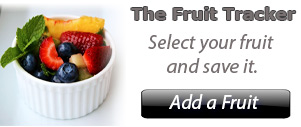
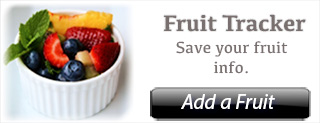
Finish the app structure with all the pages and links

diff --git a/week 2/bronze/index.html b/week 2/bronze/index.html
@@ -22,54 +22,192 @@
     </head>
 
 	<body>
+    	<!--**Home Page** Below -->
     	<div data-role="page" id="home">
         <!--Below is header section-->
-        	<div data-role="header" data-position="fixed"> 
-           <h1>CTA Header</h1>
+        	<div id="homeHeader" data-role="header" data-position="fixed"> 
+           <div class="headerImg"><a href="additem.html" target="_self"><img style src="images/heathera.jpg" width="320" height="123"  alt=""/></a></div>
            </div>
-        <!--Below is search area-->
-           <div data-role="fieldcontain">
-            <input name="" id="searchBar" placeholder="search your fruit" value="" type="search">
-        	</div>
-        <!--Below is Content Sesion-->
+           
+           <!--Below is Content Sesion-->
            <div data-role="content">
-           <p><a href="#berries"> Berries Page</a> </p>
-           </div>
-                  
+               <!--<div data-role="content"><h2 style="text-align:center; margin:-10px 0px 10px 0px;">Browse Saved Items</h2></div> **not sure  if I want to implement this -->
+               <!-- **Home Page** Data list below -->
+               <ul data-role="listview" data-filter="true" data-inset="true" data-filter-placeholder="Search Fruit Category" >           
+                   <li><a href="#berries" data-icon="info" >Berries Fruits</a></li>
+                   <li><a href="#citrus" data-icon="info" >Citrus  Fruits</a></li>
+                   <li><a href="#tropical" data-icon="info" >Tropical Fruits</a></li>
+                   <li><a href="#favorite" data-icon="info" >Favorite Fruits</a></li>
+                   <li><a href="#refrigeration" data-icon="info" >Require Refrigeration</a></li>
+               </ul><!-- End of the list -->
+        	</div><!-- End of the content -->
            
            <!-- Footer Section -->
            <div data-role="footer" data-position="fixed">
                <div data-role="navbar"><!-- Start of the navbar -->
-                <ul>
-                    <li><a href="#home" data-icon="home" class="ui-btn-active">Home</a></li>
-                    <li><a href="#about" data-icon="info" >About</a></li>
-                    <li><a href="#news" data-icon="c_news">News</a></li>
-                </ul>
-                </div><!-- End of the navbar -->
-           </div>
-		
-       </div>
+                   <ul>
+                       <li><a href="#home" data-icon="home" class="ui-btn-active ui-state-persist">Home</a></li>
+                       <li><a href="#about" data-icon="info" >About</a></li>
+                       <li><a href="#news" data-icon="c_news">News</a></li>
+                   </ul>
+               </div><!-- End of the navbar -->
+           </div>	<!-- End of the footer page -->	
+       </div><!-- End of the **Home page** -->
        
+       <!--**About Page** Below -->
+       <div data-role="page" id="about" data-add-back-btn="true">
+        	<div data-role="header" data-position="fixed" > 
+           <h1>About The App</h1>
+           </div><!-- End of the Header -->
+           <!-- content goes below -->
+           <div data-role="content">
+           <p>About Content</p>
+           </div><!-- End of the content -->
+           
+           <!-- Footer Section -->
+           <div data-role="footer" data-position="fixed">
+               <div data-role="navbar"><!-- Start of the navbar -->
+                   <ul>
+                       <li><a href="#home" data-icon="home" >Home</a></li>
+                       <li><a href="#about" data-icon="info" class="ui-btn-active ui-state-persist">About</a></li>
+                       <li><a href="#news" data-icon="c_news">News</a></li>
+                   </ul>
+               </div><!-- End of the navbar -->
+           </div><!-- End of the footer page -->
+       </div><!-- End of the **About page** -->
+       
+       <!--**News Page** Below -->
+       <div data-role="page" id="news" data-add-back-btn="true">
+        	<div data-role="header" data-position="fixed" > 
+           <h1>Latest News </h1>
+           </div><!-- End of the Header -->
+           <!-- content goes below -->
+           <div data-role="content">
+           <p>News Content</p>
+           </div><!-- End of the content -->
+           
+           <!-- Footer Section -->
+           <div data-role="footer" data-position="fixed">
+               <div data-role="navbar"><!-- Start of the navbar -->
+                   <ul>
+                       <li><a href="#home" data-icon="home" >Home</a></li>
+                       <li><a href="#about" data-icon="info" >About</a></li>
+                       <li><a href="#news" data-icon="c_news" class="ui-btn-active ui-state-persist">News</a></li>
+                   </ul>
+               </div><!-- End of the navbar -->
+           </div><!-- End of the footer page -->
+       </div><!-- End of the **News page** -->
+                      
+           
        <!--Berries Group Page Below -->
        <div data-role="page" id="berries" data-add-back-btn="true">
         	<div data-role="header" data-position="fixed" > 
-           <h1>CTA Header</h1>
-           </div>
-           <div data-role="fieldcontain">
-            <input name="" id="searchBar" placeholder="search your fruit" value="" type="search">
-        	</div>
+           <h1>Berries Fruits</h1>
+           </div><!-- End of the Header -->
+           <!-- content goes below -->
            <div data-role="content">
-           <p>Paragraph Content</p>
+           	<p>here it goes the berries description</p>
            </div>
            
+           <!-- Footer Section -->
            <div data-role="footer" data-position="fixed">
-           <h4>Footer Fixed</h4>
-           </div>
-		
-       </div>
+               <div data-role="navbar"><!-- Start of the navbar -->
+                    <ul>
+                        <li><a href="#home" data-icon="home" >Home</a></li>
+                        <li><a href="#about" data-icon="info" >About</a></li>
+                        <li><a href="#news" data-icon="c_news">News</a></li>
+                    </ul>
+               </div><!-- End of the navbar -->
+           </div><!-- End of the footer page -->		
+       </div><!-- End of the **berries page** -->	
        
-    
-    
+       <!--Citrus Group Page Below -->
+       <div data-role="page" id="citrus" data-add-back-btn="true">
+        	<div data-role="header" data-position="fixed" > 
+           <h1>Citrus Fruits</h1>
+           </div><!-- End of the Header -->
+           <!-- content goes below -->
+           <div data-role="content">
+           	<p>here it goes the citrus description</p>
+           </div>
+           
+           <!-- Footer Section -->
+           <div data-role="footer" data-position="fixed">
+               <div data-role="navbar"><!-- Start of the navbar -->
+                    <ul>
+                        <li><a href="#home" data-icon="home" >Home</a></li>
+                        <li><a href="#about" data-icon="info" >About</a></li>
+                        <li><a href="#news" data-icon="c_news">News</a></li>
+                    </ul>
+               </div><!-- End of the navbar -->
+           </div><!-- End of the footer page -->		
+       </div><!-- End of the **citrus page** -->	
+		
+       <!--Tropical Group Page Below -->
+       <div data-role="page" id="tropical" data-add-back-btn="true">
+        	<div data-role="header" data-position="fixed" > 
+           <h1>Tropical Fruit</h1>
+           </div><!-- End of the Header -->
+           <!-- content goes below -->
+           <div data-role="content">
+           	<p>here it goes the Tropical description</p>
+           </div>
+           
+           <!-- Footer Section -->
+           <div data-role="footer" data-position="fixed">
+               <div data-role="navbar"><!-- Start of the navbar -->
+                    <ul>
+                        <li><a href="#home" data-icon="home" >Home</a></li>
+                        <li><a href="#about" data-icon="info" >About</a></li>
+                        <li><a href="#news" data-icon="c_news">News</a></li>
+                    </ul>
+               </div><!-- End of the navbar -->
+           </div><!-- End of the footer page -->		
+       </div><!-- End of the **Tropical page** -->  
+         
+    	<!--Favorite Group Page Below -->
+       <div data-role="page" id="favorite" data-add-back-btn="true">
+        	<div data-role="header" data-position="fixed" > 
+           <h1>Favorite Fruit</h1>
+           </div><!-- End of the Header -->
+           <!-- content goes below -->
+           <div data-role="content">
+           	<p>here it goes the Favorite description</p>
+           </div>
+           
+           <!-- Footer Section -->
+           <div data-role="footer" data-position="fixed">
+               <div data-role="navbar"><!-- Start of the navbar -->
+                    <ul>
+                        <li><a href="#home" data-icon="home" >Home</a></li>
+                        <li><a href="#about" data-icon="info" >About</a></li>
+                        <li><a href="#news" data-icon="c_news">News</a></li>
+                    </ul>
+               </div><!-- End of the navbar -->
+           </div><!-- End of the footer page -->		
+       </div><!-- End of the **Favorite page** -->
+       
+       <!--Require Refrigeration Page Below -->
+       <div data-role="page" id="refrigeration" data-add-back-btn="true">
+        	<div data-role="header" data-position="fixed" > 
+           <h1>Refrigerated Fruits</h1>
+           </div><!-- End of the Header -->
+           <!-- content goes below -->
+           <div data-role="content">
+           	<p>here it goes the Refrigerated description</p>
+           </div>
+           
+           <!-- Footer Section -->
+           <div data-role="footer" data-position="fixed">
+               <div data-role="navbar"><!-- Start of the navbar -->
+                    <ul>
+                        <li><a href="#home" data-icon="home" >Home</a></li>
+                        <li><a href="#about" data-icon="info" >About</a></li>
+                        <li><a href="#news" data-icon="c_news">News</a></li>
+                    </ul>
+               </div><!-- End of the navbar -->
+           </div><!-- End of the footer page -->		
+       </div><!-- End of the **Require Refrigeration page** -->
     
     <!--Java Script files call out-->    
 	<script src="http://code.jquery.com/jquery-1.7.2.min.js"></script>

diff --git a/week 2/bronze/css/indexcss.css b/week 2/bronze/css/indexcss.css
@@ -6,14 +6,12 @@
 
 
 /*below list the header setting*/
-#header{
-	height : 127px;
-	width: 301px;
+.headerImg {
+	height : 123px;
+	width: 320px;
 	margin-left: auto ;
   	margin-right: auto ;
-	background-color : #BDBFC1;
 }
-
 
 /*Below are the custom icons for JQM*/
 
